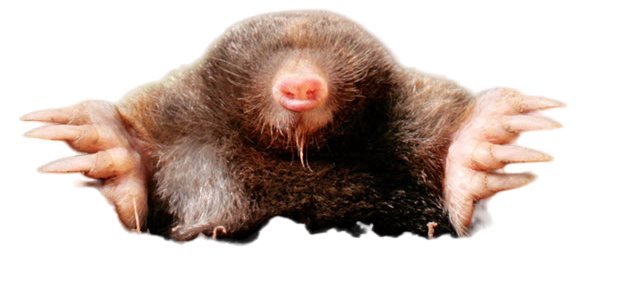
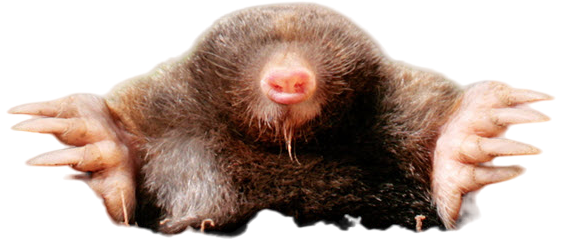
Настроено попадание молотка, исправлено формирование координат крота

diff --git a/src/components/Game/Game.jsx b/src/components/Game/Game.jsx
@@ -5,6 +5,7 @@ import { Mole } from '../Mole/Mole';
 import {
   countPoints, finishGame, getGameSelector, startGame,
 } from '../../redux/slices/gameSlice';
+// eslint-disable-next-line no-unused-vars
 import { clearMole, setMole } from '../../redux/slices/moleSlice';
 import { ProgressBar } from '../ProgressBar/ProgressBas';
 import { MOLE_TIME } from '../constants';
@@ -39,8 +40,8 @@ export function Game() {
       }, 100);
     } else if (started) {
       dispatch(finishGame());
-      dispatch(clearMole());
-      setIsModalOpen(true);
+      // dispatch(clearMole());
+      // setIsModalOpen(true);
     }
   }, [started, timeLeft, setTimeLeft, setIsModalOpen]);
 

diff --git a/src/components/Modal/Modal.jsx b/src/components/Modal/Modal.jsx
@@ -31,15 +31,9 @@ function ModalInner({ closeModalHandler, children }) {
   );
 }
 export function Modal({ closeModalHandler, isModalOpen, children }) {
-  function closeModalByClickWrapper(event) {
-    if (event.target === event.currentTarget) {
-      closeModalHandler();
-    }
-  }
   if (!isModalOpen) return null;
   return createPortal(
     <div
-      onMouseDown={closeModalByClickWrapper}
       className={styles.modalOuter}
     >
       <ModalInner closeModalHandler={closeModalHandler}>{children}</ModalInner>

diff --git a/src/components/Mole/Mole.jsx b/src/components/Mole/Mole.jsx
@@ -5,6 +5,7 @@ import { getMoleSelector } from '../../redux/slices/moleSlice';
 
 export function Mole({ clickMoleHandler }) {
   const mole = useSelector(getMoleSelector);
+  console.log(mole);
   if (mole.column === '' || mole.row === '') {
     return null;
   }

diff --git a/src/components/Mole/mole.module.scss b/src/components/Mole/mole.module.scss
@@ -1,9 +1,10 @@
 .mole {
     display: flex;
     justify-content: center;
-    align-items: center;
+    align-items: flex-end;
+    margin-bottom: -20px;
 }
 
 .mole img {
-    width: 80px;
+    width: 100px;
 }

diff --git a/src/redux/slices/moleSlice.js b/src/redux/slices/moleSlice.js
@@ -8,7 +8,6 @@ const moleSlice = createSlice({
   reducers: {
     setMole() {
       return {
-        hidden: false,
         row: getRandomNumber(),
         column: getRandomNumber(),
       };

diff --git a/src/redux/helper.js b/src/redux/helper.js
@@ -1,3 +1,3 @@
 export function getRandomNumber() {
-  return Math.floor(Math.random() * 8);
+  return Math.floor(Math.random() * 8 + 1);
 }
